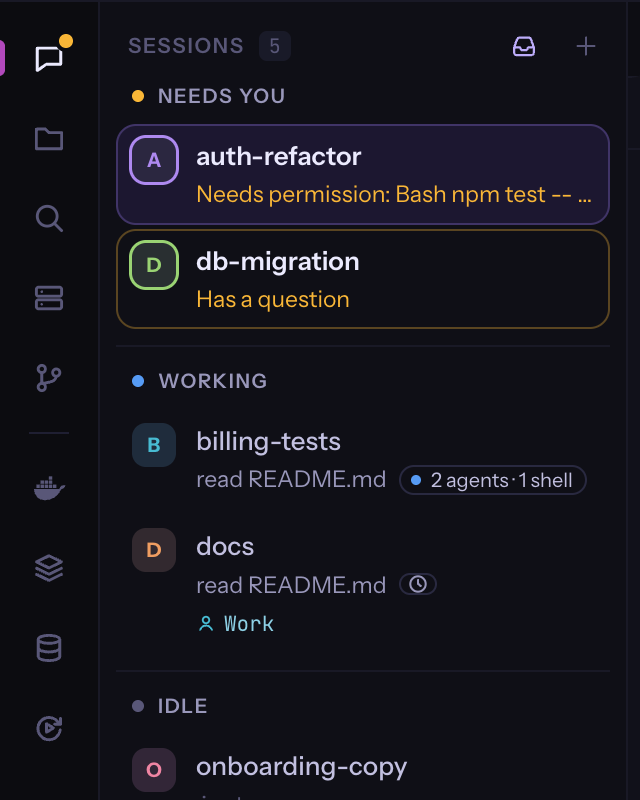
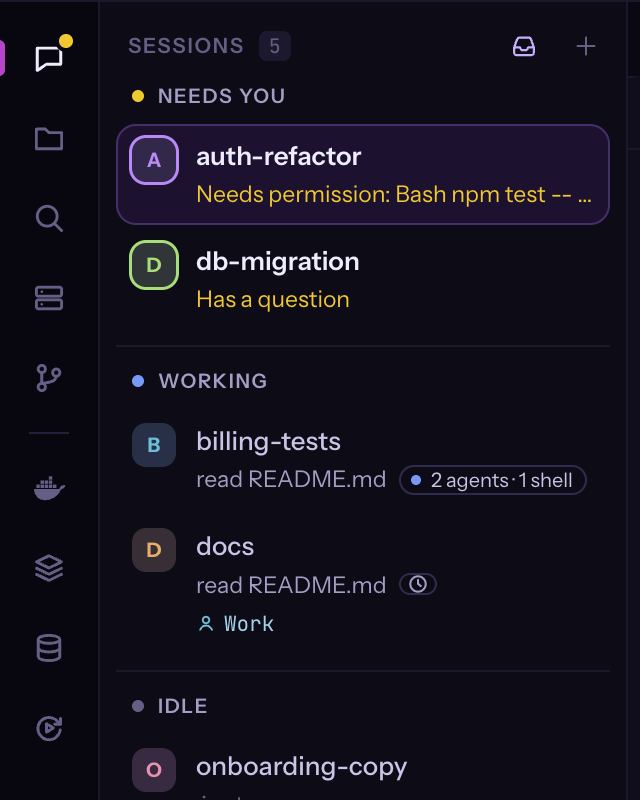
fix: a waiting row keeps no amber box
The quiet sidebar took the amber box off waiting rows on purpose: a waiting session already shows its avatar's
ring, its amber activity line and its place under Needs you, and one lit row (the selected one) is where the eye
should land. The motion work had brought a 1 px amber edge back on every waiting row; it goes again, and the site
screenshots taken for it go back to the ones without it.

diff --git a/tests/e2e/transitions.spec.ts b/tests/e2e/transitions.spec.ts
@@ -9,9 +9,9 @@ import { look } from './shots';
 // crown follows it, and the workspace rises in. A tab picked: its crown stretches over to it, then catches up, and the
 // content slides in from the side it is on. A new session: a spark arcs from the + to its row and its terminal opens
 // from there. A split: the layout is there at once, the new pane's content springs in past its place and settles, its
-// line draws. A session that finishes: a flat green wave crosses its row and a check takes its avatar a moment; one
-// that waits for you keeps an amber edge on its row. They never hold a click (one mid-move goes where it lands), paint
-// nothing outside their box, leave nothing once they end, and Reduce motion plays none.
+// line draws. A session that finishes: a flat green wave crosses its row and a check takes its avatar a moment. They
+// never hold a click (one mid-move goes where it lands), paint nothing outside their box, leave nothing once they end,
+// and Reduce motion plays none. Only the user's own navigation moves anything.
 
 type Played = { on: string; kf: string };
 
@@ -167,15 +167,6 @@ const catchWave = (win: Page) => win.evaluate(() => new Promise<{ title: string;
   mo.observe(document.body, { childList: true, subtree: true });
   setTimeout(() => { mo.disconnect(); done(null); }, 15000);
 }));
-/** What a box-shadow written as `value` computes to here (tokens resolved). */
-const shadowOf = (win: Page, value: string) => win.evaluate((v) => {
-  const probe = document.createElement('div');
-  probe.style.boxShadow = v;
-  document.body.append(probe);
-  const out = getComputedStyle(probe).boxShadow;
-  probe.remove();
-  return out;
-}, value);
 const shadow = (loc: Locator) => loc.evaluate((el) => getComputedStyle(el).boxShadow);
 
 type Layout = { columns: string[]; rows: string[]; first: string[] | null; fits: Record<string, string[]> };
@@ -846,7 +837,7 @@ test('a finished row\'s wave whose end never comes still goes: cancelled, never 
   }
 });
 
-test('a session that finishes: a flat wave crosses its row, a check takes its avatar a moment, both go; never at a reload. A waiting row keeps an amber edge', async () => {
+test('a session that finishes: a flat wave crosses its row, a check takes its avatar a moment, both go; never at a reload. A waiting row wears no amber box', async () => {
   test.setTimeout(120000);
   const { app, home, win } = await launch();
   try {
@@ -856,18 +847,20 @@ test('a session that finishes: a flat wave crosses its row, a check takes its av
     await newSession(win, 'One');
     await newSession(win, 'Two');
 
-    // Waiting, not the row selected: a calm amber edge on the row. The selected one keeps its own.
-    const waitingEdge = await shadowOf(win, 'inset 0 0 0 1px var(--edge-waiting)');
-    await expect.poll(() => shadow(row(win, 'One'))).toBe(waitingEdge);
+    // Waiting, not the row selected: no amber box on the row (its avatar's ring and its amber line say it). The
+    // selected one keeps its own edge.
+    await expect(row(win, 'One')).toHaveClass(/state-waiting/);
+    // Read once its own transitions (a state's fill and edge ease in) have ended.
+    await row(win, 'One').evaluate((el) => Promise.all(el.getAnimations().filter((a) => a instanceof CSSTransition).map((a) => a.finished.catch(() => undefined))));
+    expect(await shadow(row(win, 'One'))).toBe('none');
+    expect(await row(win, 'One').evaluate((el) => getComputedStyle(el).backgroundColor)).toBe('rgba(0, 0, 0, 0)');
     await expect(row(win, 'Two')).toHaveClass(/is-selected/);
-    expect(await shadow(row(win, 'Two'))).not.toBe(waitingEdge);
     expect(await shadow(row(win, 'Two'))).not.toBe('none');
-    await look(win.locator('.sidebar'), 'test-results/transitions-waiting-edge.png');
+    await look(win.locator('.sidebar'), 'test-results/transitions-waiting-row.png');
 
-    // Answered, working: the edge goes. Nothing of the finish has played yet (waiting and working are no finish).
+    // Answered, working: nothing of the finish has played yet (waiting and working are no finish).
     await typeInto(win, 'One', 'hold\r');
     await expect(row(win, 'One')).toHaveClass(/state-running/, { timeout: 10000 });
-    await expect.poll(() => shadow(row(win, 'One'))).toBe('none');
     expect((await cues(win)).added).toEqual([]);
 
     // Finished: the wave mounts on its row (moved to its new section meanwhile), the check on its avatar.

diff --git a/tests/e2e/workspaces.spec.ts b/tests/e2e/workspaces.spec.ts
@@ -355,19 +355,11 @@ test('workspaces: ⌘J follows a session waiting in another workspace; Close wit
     await expect(dot).toHaveAttribute('data-tip', /1 waiting/);
     await win.mouse.move(900, 500);
     await look(win.locator('.sidebar'), `${SHOTS}/workspaces-waiting-card.png`);
-    // Peeking at it: the waiting row has no amber fill, only a calm amber edge, its avatar's ring and its amber line.
+    // Peeking at it: the waiting row has no amber box, only its avatar's ring and its amber line.
     await group(win, 'Review').locator('.ws-chev').click();
     const waiting = group(win, 'Review').locator('.session-row.state-waiting');
     await expect(waiting).toBeVisible();
-    const edge = await win.evaluate(() => {
-      const probe = document.createElement('div');
-      probe.style.boxShadow = 'inset 0 0 0 1px var(--edge-waiting)';
-      document.body.append(probe);
-      const v = getComputedStyle(probe).boxShadow;
-      probe.remove();
-      return v;
-    });
-    expect(await waiting.evaluate((el) => [getComputedStyle(el).backgroundColor, getComputedStyle(el).boxShadow])).toEqual(['rgba(0, 0, 0, 0)', edge]);
+    expect(await waiting.evaluate((el) => [getComputedStyle(el).backgroundColor, getComputedStyle(el).boxShadow])).toEqual(['rgba(0, 0, 0, 0)', 'none']);
     await group(win, 'Review').locator('.ws-chev').click();
 
     // Go › Next Session Needing Attention (⌘J): Review comes to the front with its session.

diff --git a/src/renderer/motion.css b/src/renderer/motion.css
@@ -67,11 +67,6 @@
 .pane-divider[data-drawing]::after { background: var(--text-4); transition: none; }
 .pane-under { position: absolute; inset: 0; background: var(--bg-2); pointer-events: none; }
 
-/* A session waiting for you: besides its avatar's ring cue, its row keeps a calm amber edge for as long as it waits.
-   The selected row keeps its own edge, a row asking to close its red one, a focused row its focus ring. A row being
-   closed waits no more: neither it nor the copy that folds away in its place (RowConfirm) wears the edge. */
-.session-row.state-waiting:not(.is-selected, .is-asking, .is-closing, :has(> .row-main:focus-visible)) { box-shadow: inset 0 0 0 1px var(--edge-waiting); }
-
 /* A session that finished just now (SessionRow): a flat green layer is revealed across its row from the left in
    520 ms, then fades by 900 ms, under the row's content and over its own fill (selected, hovered): the row stacks on
    its own while the cue plays (is-finishing; its size container does not make it a stacking context). A check takes
